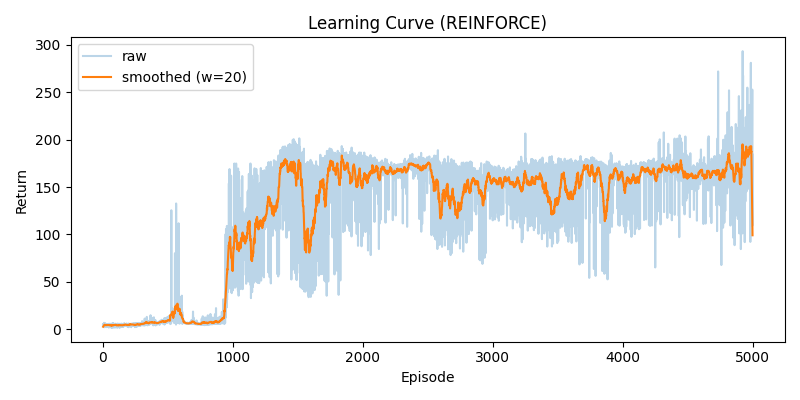
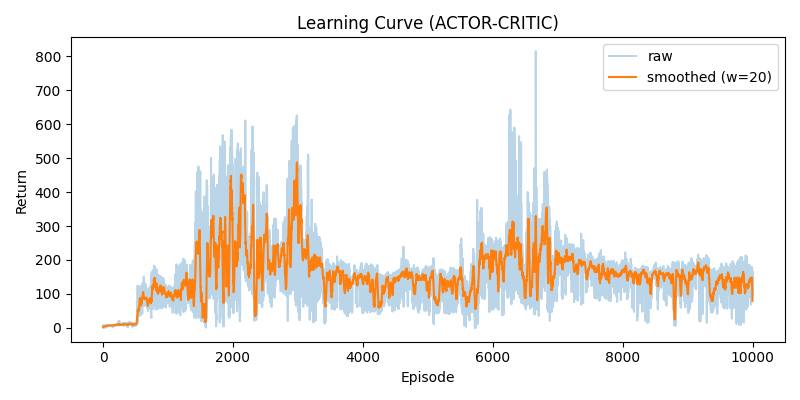
Refactor agent and training scripts; update critic network comments, adjust training parameters, and enable rendering in test scripts.

diff --git a/test_random_policy.py b/test_random_policy.py
@@ -19,69 +19,29 @@ import gym
 from env.custom_hopper import *
 
 
-import os
-import cv2
-import gym
-from env.custom_hopper import *
-
 def main():
-    env = gym.make('CustomHopper-source-v0')
-    # env = gym.make('CustomHopper-target-v0')
+	env = gym.make('CustomHopper-source-v0')
+	# env = gym.make('CustomHopper-target-v0')
 
-    print('State space:', env.observation_space)
-    print('Action space:', env.action_space)
-    print('Dynamics parameters:', env.get_parameters())
+	print('State space:', env.observation_space) # state-space
+	print('Action space:', env.action_space) # action-space
+	print('Dynamics parameters:', env.get_parameters()) # masses of each link of the Hopper
 
-    n_episodes = 500
-    save_frames = True  # invece di render
+	n_episodes = 500
+	render = True
 
-    frames_dir = "/content/hopper_frames"
-    os.makedirs(frames_dir, exist_ok=True)
+	for episode in range(n_episodes):
+		done = False
+		state = env.reset()	# Reset environment to initial state
 
-    frame_idx = 0  # contatore globale dei frame
+		while not done:  # Until the episode is over
 
-    for episode in range(n_episodes):
-        done = False
-        state = env.reset()
+			action = env.action_space.sample()	# Sample random action
+		
+			state, reward, done, info = env.step(action)	# Step the simulator to the next timestep
 
-        while not done:
-            action = env.action_space.sample()
-            state, reward, done, info = env.step(action)
-
-            if save_frames:
-                frame = env.render(mode='rgb_array')  # molto importante: mode='rgb_array'
-                frame_filename = os.path.join(frames_dir, f"frame_{frame_idx:06d}.png")
-                cv2.imwrite(frame_filename, cv2.cvtColor(frame, cv2.COLOR_RGB2BGR))  # cv2 vuole immagini BGR
-                frame_idx += 1
-
-    env.close()
-
-    # Dopo aver raccolto tutti i frame, creiamo un video
-    make_video_from_frames(frames_dir, output_path="/content/hopper_video.avi", fps=30)
-
-def make_video_from_frames(frames_dir, output_path, fps=30):
-    import glob
-
-    img_array = []
-    filenames = sorted(glob.glob(os.path.join(frames_dir, 'frame_*.png')))
-
-    if not filenames:
-        print("No frames found!")
-        return
-
-    # Leggiamo la dimensione dal primo frame
-    img = cv2.imread(filenames[0])
-    height, width, layers = img.shape
-    size = (width, height)
-
-    out = cv2.VideoWriter(output_path, cv2.VideoWriter_fourcc(*'DIVX'), fps, size)
-
-    for filename in filenames:
-        img = cv2.imread(filename)
-        out.write(img)
-
-    out.release()
-    print(f"Video salvato in {output_path}")
+			if render:
+				env.render()
 
 	
 

diff --git a/agent.py b/agent.py
@@ -39,7 +39,7 @@ class Policy(torch.nn.Module):
         """
             Critic network
         """
-        # FATTO DA ME critic network for actor-critic algorithm
+        #critic network 
         self.fc1_critic = torch.nn.Linear(state_space, self.hidden)
         self.fc2_critic = torch.nn.Linear(self.hidden, self.hidden)
         self.fc3_critic_value = torch.nn.Linear(self.hidden, 1)
@@ -114,11 +114,11 @@ class Agent(object):
         #clear buffers for the next episode
         self.states, self.next_states, self.action_log_probs, self.rewards, self.done = [], [], [], [], []
 
-        # TASK 3:
-        # -------- Critic forward pass -------------------
+        # TASK 3:Critic forward pass 
         _,state_values = self.policy(states)  # V(s_t)
         with torch.no_grad():
             _,next_state_values = self.policy(next_states)    # V(s_{t+1})
+            # next_state_values = next_state_values * (1.0 - done)
         #   - compute boostrapped discounted return estimates
             returns = rewards + self.gamma * (1.0 - done)* next_state_values        # R_t + γ V(s_{t+1})
         #   - compute advantage terms (for the actor)
@@ -130,6 +130,8 @@ class Agent(object):
         #   - compute gradients and step the optimizer
         self.optimizer.zero_grad()
         total_loss.backward()  #o fare separato? 
+        # 3. CLIP sui gradienti di TUTTI i parametri della policy
+        #torch.nn.utils.clip_grad_norm_(self.policy.parameters(), max_norm=0.5)
         self.optimizer.step()
 
         return {

diff --git a/train.py b/train.py
@@ -14,12 +14,13 @@ import gym
 from env.custom_hopper import *
 from agent import Agent, Policy
 
-
+#render = True
+render = False
 
 def parse_args():
     parser = argparse.ArgumentParser()
-    parser.add_argument('--n-episodes', default=5000, type=int, help='Number of training episodes')
-    parser.add_argument('--print-every', default=1000, type=int, help='Print info every <> episodes')
+    parser.add_argument('--n-episodes', default=10000, type=int, help='Number of training episodes')
+    parser.add_argument('--print-every', default=100, type=int, help='Print info every <> episodes')
     parser.add_argument('--device', default='cpu', type=str, help='network device [cpu, cuda]')
 
     return parser.parse_args()
@@ -65,10 +66,14 @@ def main():
 			state, reward, done, info = env.step(action.detach().cpu().numpy())
 
 			agent.store_outcome(previous_state, state, action_probabilities, reward, done)
-
+			
+			agent.update_policy() #update policy qua?
+			
 			train_reward += reward
+			
+			if render:
+				env.render()
 		
-		agent.update_policy() #update policy qua?
 		episode_rewards.append(train_reward) #graf2
 		if (episode+1)%args.print_every == 0:
 			print('Training episode:', episode)
@@ -93,7 +98,7 @@ def main():
 	plt.plot(episodes, smoothed, label=f'smoothed (w={window})')
 	plt.xlabel('Episode')
 	plt.ylabel('Return')
-	plt.title('Learning Curve (REINFORCE)')
+	plt.title('Learning Curve (ACTOR-CRITIC)')
 	plt.legend()
 	plt.tight_layout()
 	plt.savefig('training_curve.png')  # salva PNG

diff --git a/test.py b/test.py
@@ -11,7 +11,7 @@ def parse_args():
     parser = argparse.ArgumentParser()
     parser.add_argument('--model', default=None, type=str, help='Model path')
     parser.add_argument('--device', default='cpu', type=str, help='network device [cpu, cuda]')
-    parser.add_argument('--render', default=False, action='store_true', help='Render the simulator')
+    parser.add_argument('--render', default=True, action='store_true', help='Render the simulator')
     parser.add_argument('--episodes', default=10, type=int, help='Number of test episodes')
 
     return parser.parse_args()
